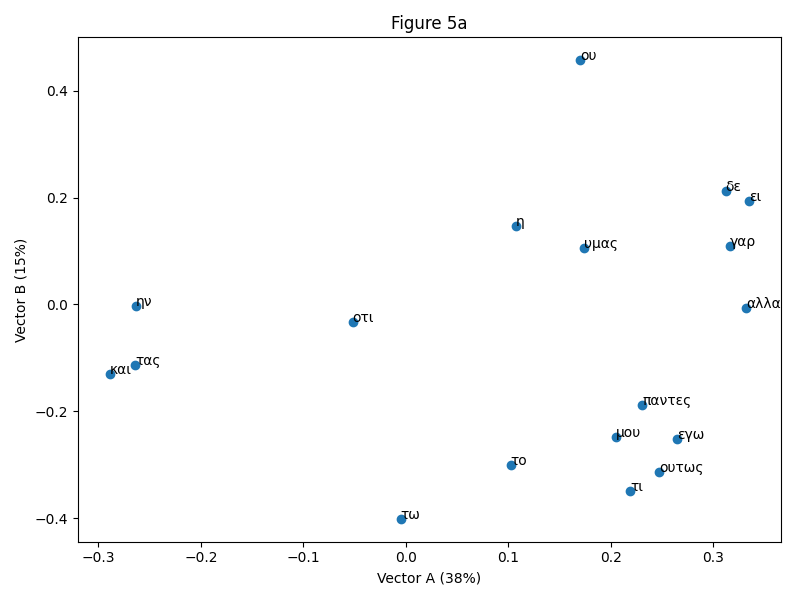
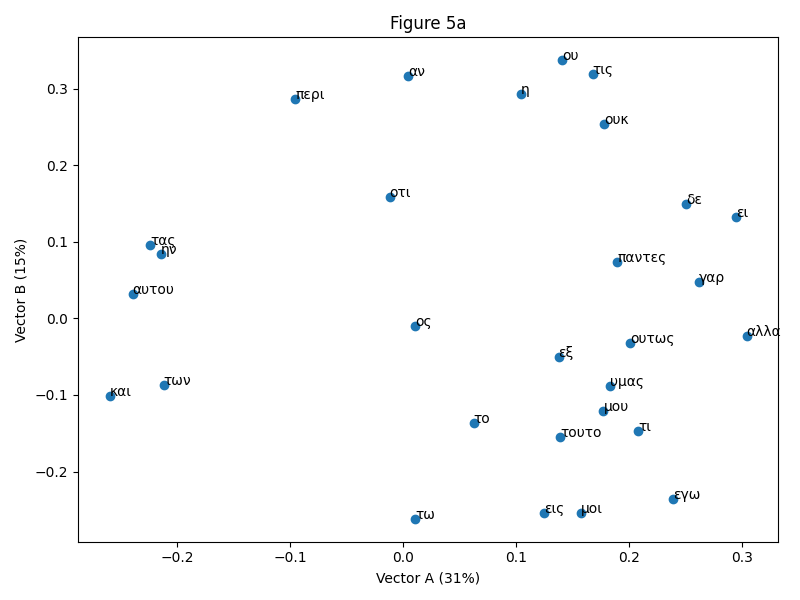
tweaking function word list

diff --git a/find_paul_markers_1.py b/find_paul_markers_1.py
@@ -17,7 +17,8 @@ for ex_book in excluded_books + excluded_nt_books:
 merge_pauline_texts(book_to_text)
 merge_ignatian_texts(book_to_text)
 
-function_words = ['και', 'εν', 'του', 'ο', 'αυτου', 'εις', 'τον', 'την', 'το', 'δε', 'τω', 'των', 'της', 'η', 'σου', 'τα', 'επι', 'οι', 'αυτων', 'οτι', 'μου', 'προς', 'τη', 'μη', 'ουκ', 'τους', 'ου', 'απο', 'αυτον', 'τοις', 'εκ', 'αυτω', 'εστιν', 'γαρ', 'ως', 'τας', 'αυτους', 'υμων', 'αυτης', 'κατα', 'αυτοις', 'με', 'ημων', 'σε', 'δια', 'μετα', 'εγω', 'ην', 'εαν', 'ει', 'παντα', 'σοι', 'εως', 'επ', 'ινα', 'εσται', 'τι', 'υμιν', 'εξ', 'αυτην', 'τουτο', 'αι', 'περι', 'αυτη', 'ταις', 'μοι', 'συ', 'υμας', 'ουτως', 'τις', 'ταυτα', 'ουν', 'παντες', 'εκει', 'μετ', 'αλλα', 'ημας']
+# non-thematic words from top 110 (.1% frequency minimum from frequency counter including septuagint)
+function_words = ['και', 'εν', 'του', 'ο', 'αυτου', 'εις', 'τον', 'την', 'το', 'δε', 'τω', 'των', 'της', 'η', 'σου', 'τα', 'επι', 'οι', 'αυτων', 'οτι', 'μου', 'προς', 'τη', 'μη', 'ουκ', 'τους', 'ου', 'απο', 'αυτον', 'τοις', 'εκ', 'αυτω', 'εστιν', 'γαρ', 'ως', 'τας', 'αυτους', 'υμων', 'αυτης', 'κατα', 'αυτοις', 'με', 'ημων', 'σε', 'δια', 'μετα', 'εγω', 'ην', 'εαν', 'ει', 'παντα', 'σοι', 'εως', 'επ', 'ινα', 'εσται', 'τι', 'υμιν', 'εξ', 'αυτην', 'τουτο', 'αι', 'περι', 'αυτη', 'ταις', 'μοι', 'συ', 'υμας', 'ουτως', 'τις', 'ταυτα', 'ουν', 'παντες', 'εκει', 'μετ', 'αλλα', 'ημας', 'αν', 'νυν', 'αυτος', 'παρα', 'δυο', 'ος']
 
 """
 Let us set the
@@ -32,7 +33,7 @@ def is_paul_marker(books_and_frequencies):
   sorted_books_and_frequencies = sorted(books_and_frequencies, key=lambda x: x[1])
   print('\t', sorted_books_and_frequencies)
 
-  for i in range(5):
+  for i in range(7):
     if sorted_books_and_frequencies[i][0] == 'Paul': # TODO check if zero?
       return True
     elif sorted_books_and_frequencies[-i - 1][0] == 'Paul':

diff --git a/unit_frequency_utils.py b/unit_frequency_utils.py
@@ -13,11 +13,13 @@ def unit_counts_to_normalized_frequencies(num_units, book_to_unit_counts, overal
 
   # List of up to num_units units that appear the most frequently overall.
   most_frequent_units_and_counts = overall_unit_counts.most_common(num_units)
-  print(most_frequent_units_and_counts)
   most_frequent_units = [x[0] for x in most_frequent_units_and_counts]
 
+  total_count = sum(overall_unit_counts.values())
+  print('frequency of least common unit is ' + str(most_frequent_units_and_counts[-1][1] / total_count))
+
   return (
-    unit_counts_to_normalized_frequencies_for_given_units(most_frequent_units, book_to_unit_counts, overall_unit_counts, normalization_method),
+    unit_counts_to_normalized_frequencies_for_given_units(most_frequent_units, book_to_unit_counts, normalization_method),
     most_frequent_units)
 
 # Returns a 2d array
@@ -27,8 +29,7 @@ def unit_counts_to_normalized_frequencies(num_units, book_to_unit_counts, overal
 #
 # units: List, the units the frequencies should be calculated for
 # book_to_unit_counts: List<Counter>, the number of times every unit appears in each book
-# overall_unit_counts: Counter, the number of times every unit appears in all books
-def unit_counts_to_normalized_frequencies_for_given_units(units, book_to_unit_counts, overall_unit_counts, normalization_method):
+def unit_counts_to_normalized_frequencies_for_given_units(units, book_to_unit_counts, normalization_method):
   # 2d List of book to unit to frequency
   # where the book indexes match those in book_to_unit_counts
   # and the unit indexes match those in units

diff --git a/find_paul_markers_2.py b/find_paul_markers_2.py
@@ -18,11 +18,8 @@ add_merged_pauline_text(book_to_text)
 
 colors = [get_label_color(b) for b in book_to_text.keys()]
 
-# eph/col interesting: ἐν, τοῦ
-#interesting: 'τὰς', 'γὰρ',
-#['καὶ', 'ἐν', 'τοῦ', 'ὁ', 'αὐτοῦ', 'εἰς', 'τὸν', 'τὴν', 'τὸ', 'τῷ', 'τῶν', 'δὲ', 'τῆς', 'τὰ', 'ἐπὶ', 'οἱ', 'αὐτῶν', 'ὅτι', 'πρὸς', 'τῇ', 'οὐκ', 'τοὺς', 'μὴ', 'ἀπὸ', 'τοῖς', 'ἐκ', 'οὐ', 'αὐτῷ', 'ὡς', 'τὰς', 'γὰρ', 'ὑμῶν', 'κατὰ', 'ἡμῶν', 'διὰ', 'μετὰ', 'ἐστιν', 'ἵνα', 'περὶ', 'τοῦτο', 'ταῖς', 'οὖν', 'ταῦτα', 'ἀλλὰ', 'νῦν']
-
-for WORD in ['και', 'το', 'δε', 'τω', 'η', 'οτι', 'μου', 'ου', 'γαρ', 'τας', 'εγω', 'ην', 'ει', 'τι', 'υμας', 'ουτως', 'παντες', 'αλλα']:
+# from top 110, paul in top/bottom 7
+for WORD in  ['και', 'αυτου', 'εις', 'το', 'δε', 'τω', 'των', 'η', 'οτι', 'μου', 'ουκ', 'ου', 'γαρ', 'τας', 'εγω', 'ην', 'ει', 'τι', 'εξ', 'τουτο', 'περι', 'μοι', 'υμας', 'ουτως', 'τις', 'παντες', 'αλλα', 'αν', 'ος']:
   frequencies = calculate_raw_function_word_frequencies(book_to_text, [WORD])
 
   fig = plt.figure(1, figsize=(8, 6))

diff --git a/find_paul_markers_3.py b/find_paul_markers_3.py
@@ -17,18 +17,16 @@ wanted_septuagint_books = ['Epistle of Jeremiah']
 excluded_nt_books = ['Matthew', 'Mark', 'Luke', 'John', 'Acts']
 excluded_books = [b for b in SEPTUAGINT_BOOKS if b not in wanted_septuagint_books]
 book_to_text = read_texts()
-for ex_book in excluded_books + excluded_nt_books:
-  book_to_text.pop(ex_book)
+#for ex_book in excluded_books + excluded_nt_books:
+#  book_to_text.pop(ex_book)
 
 # get rid of uselessly short books?
 for book in set(book_to_text.keys()):
   if book not in ['Ephesians', 'Colossians'] and book_to_text[book].count(' ') < 1999:
     book_to_text.pop(book)
 
-#rearrange_pauline_texts(book_to_text)
-#merge_colossians_ephesians_texts(book_to_text) #not useful
-
-function_words = ['και', 'το', 'δε', 'τω', 'η', 'οτι', 'μου', 'ου', 'γαρ', 'τας', 'εγω', 'ην', 'ει', 'τι', 'υμας', 'ουτως', 'παντες', 'αλλα']
+# from top 110, paul in top/bottom 7
+function_words = ['και', 'αυτου', 'εις', 'το', 'δε', 'τω', 'των', 'η', 'οτι', 'μου', 'ουκ', 'ου', 'γαρ', 'τας', 'εγω', 'ην', 'ει', 'τι', 'εξ', 'τουτο', 'περι', 'μοι', 'υμας', 'ουτως', 'τις', 'παντες', 'αλλα', 'αν', 'ος']
 
 NORMALIZATION_METHOD = 'zscore'
 

diff --git a/function_word_utils.py b/function_word_utils.py
@@ -101,15 +101,13 @@ def calculate_normalized_function_word_frequencies(book_to_text, function_words,
   # first, calculate frequency of every possible word in each book.
   # This is a list of Counters, one for each word
   book_to_word_counts = [None] * len(book_to_text)
-  overall_word_counts = Counter()
 
   for index, book in enumerate(book_to_text):
     words = book_to_text[book].split(' ')
     book_to_word_counts[index] = Counter(words)
-    overall_word_counts.update(words)
 
   return unit_counts_to_normalized_frequencies_for_given_units(
-    function_words, book_to_word_counts, overall_word_counts, normalization_method)
+    function_words, book_to_word_counts, normalization_method)
 
 # Returns the relative frequencies of the given words
 # (as a fraction of the total words in each book)

diff --git a/text_normalization_utils.py b/text_normalization_utils.py
@@ -14,7 +14,7 @@ def normalize(text):
 
   # check all resulting characters to make sure they're simple greek letters
   for c in result:
-    if ord(c) not in range(945, 970) and c != ' ':
+    if ord(c) not in range(945, 990) and c != ' ':
       print('ERROR:' + c)
 
   return result

diff --git a/principal_component_analysis_1.py b/principal_component_analysis_1.py
@@ -14,6 +14,7 @@ Generates Figures 1a and 1b for the thesis.
 book_to_text = read_texts()
 
 # Find 99 most common words (p.264 Hutchinson)
+# TODO change to 110 to get all words used .1% of the time
 NUM_WORDS_WANTED = 99
 NORMALIZATION_METHOD = 'zscore'
 
